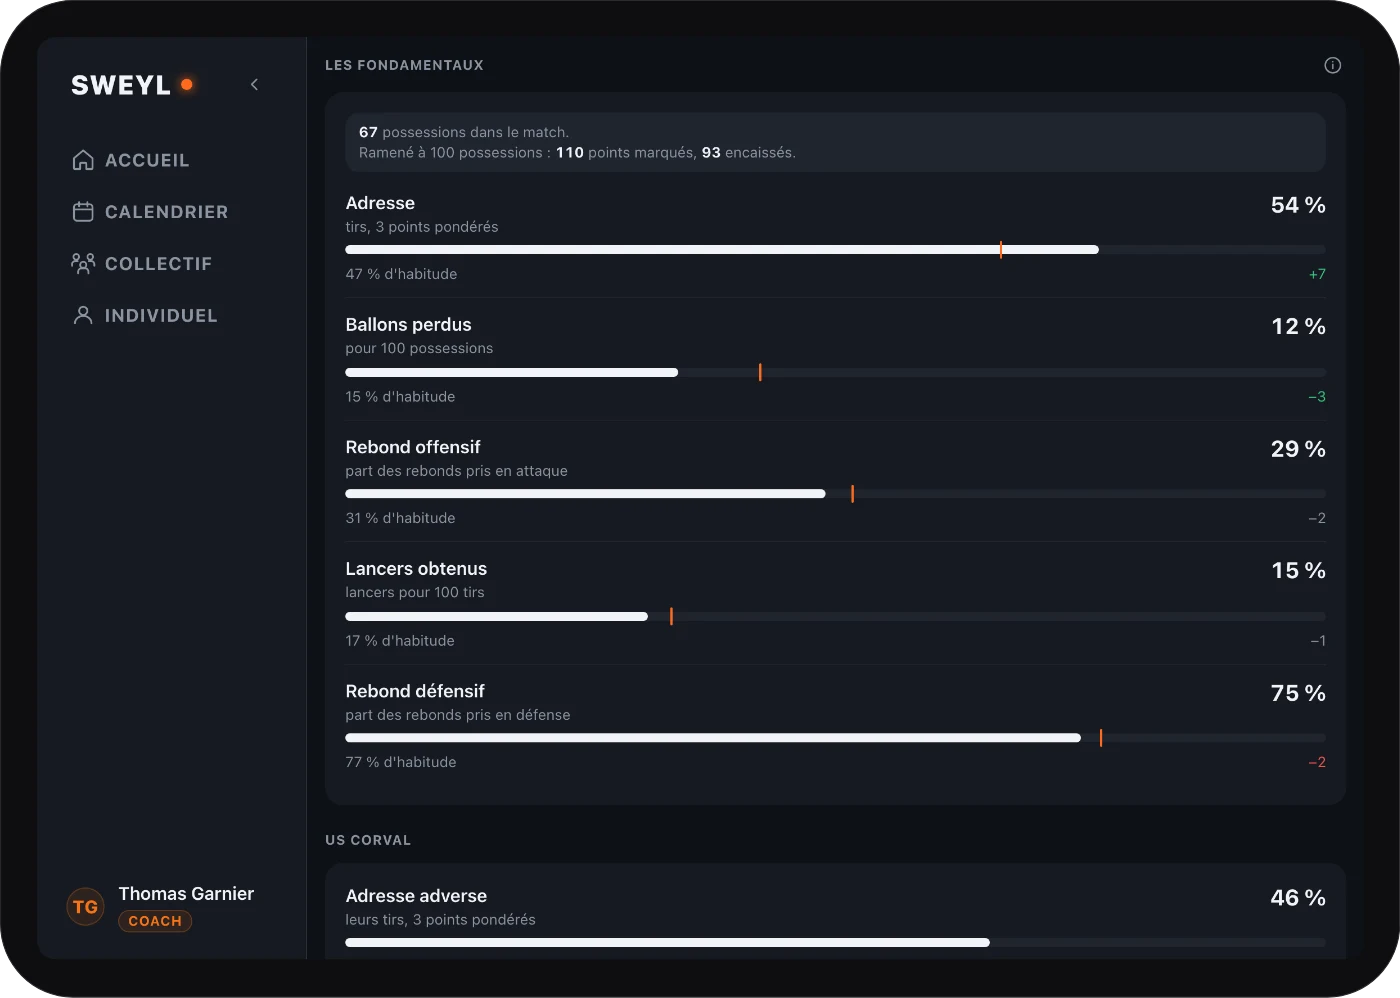
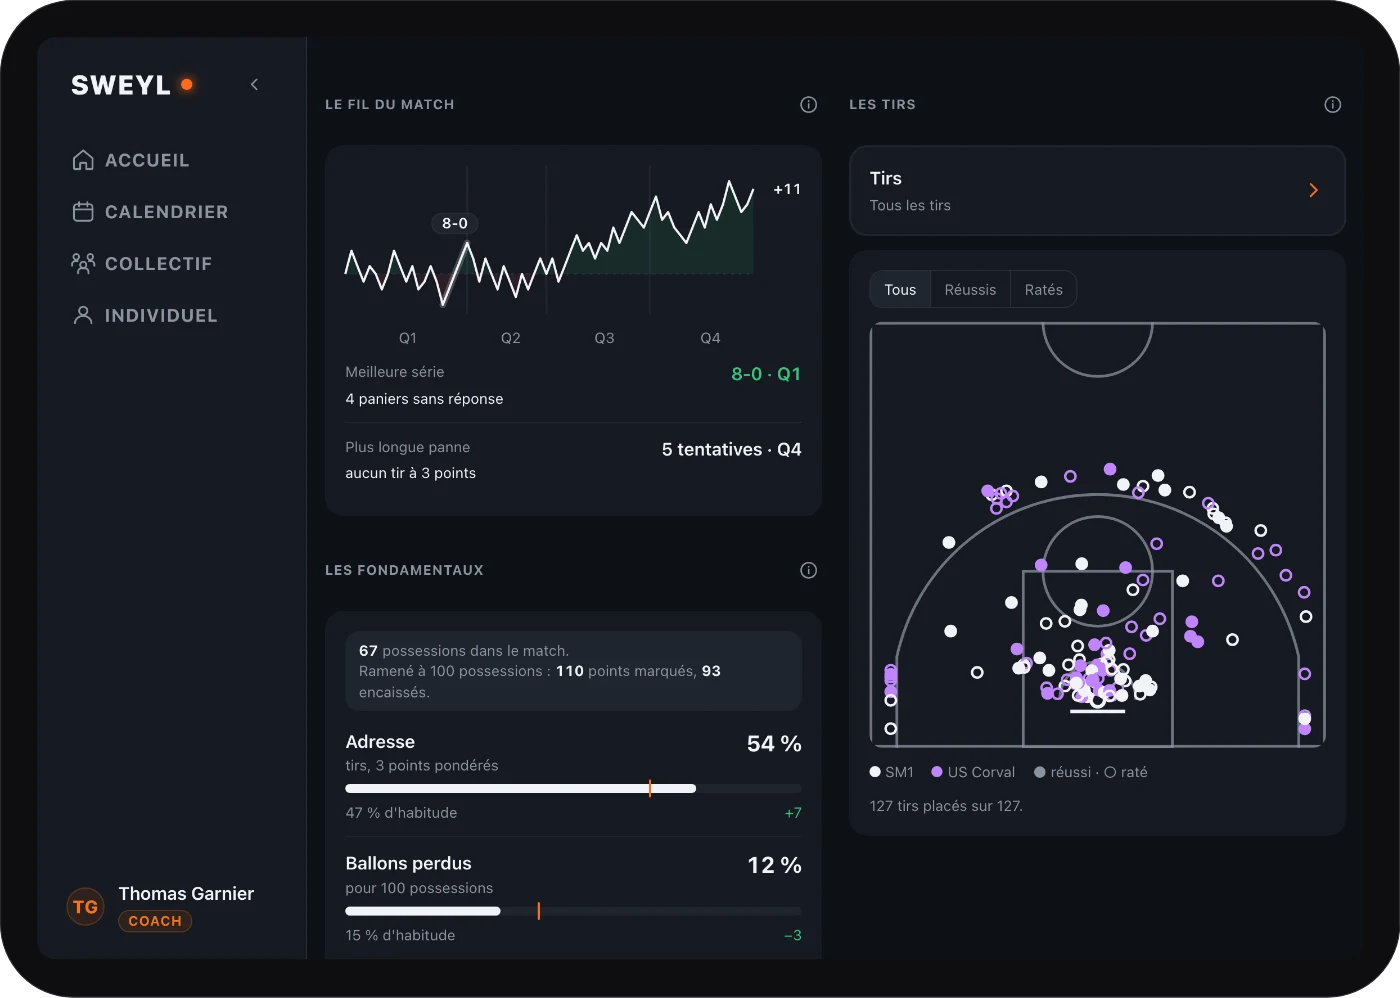
feat(pro): pilier 03 recentré sur le fil du match, l'adresse et la carte des tirs
La capture d'analyse place le fil du match et l'adresse à gauche, la carte
des tirs des deux camps à droite. Plus de « quatre facteurs » sur la page.

diff --git a/src/pro/copy.js b/src/pro/copy.js
@@ -73,10 +73,10 @@ export const COPY = {
       id: 'analyse',
       eyebrow: '03 · Vos stats · Après le match',
       title: 'Le match, expliqué.',
-      sub: 'Adresse, pertes, rebond, lancers obtenus : les quatre facteurs, des deux côtés. Et la carte des tirs, joueur par joueur.',
+      sub: 'Les séries, les pannes, l’adresse des deux camps. Et chaque tir, à sa place sur le terrain.',
       spec: [
-        ['Fondamentaux', 'Face aux habitudes de votre équipe'],
         ['Fil du match', 'Séries et pannes, panier par panier'],
+        ['Adresse', 'La vôtre, la leur, face à vos habitudes'],
         ['Carte des tirs', 'Réussis et ratés, par joueur'],
       ],
       shot: 'analyse',
@@ -100,7 +100,7 @@ export const COPY = {
     fiche: 'Fiche d’un joueur adverse, avec le duel et la façon de le défendre',
     preparation: 'Préparation du match publiée aux joueurs, avec les duels et leur lecture',
     boxscore: 'Statistiques de l’équipe adverse, joueur par joueur, avec l’Éval et le +/-',
-    analyse: 'Analyse d’un match : les fondamentaux des deux camps et la carte des tirs',
+    analyse: 'Analyse d’un match : le fil du match, l’adresse et la carte des tirs des deux camps',
     video: 'Outil vidéo calé sur une action du journal du match',
   },
   zoomClose: 'Fermer',

diff --git a/CLAUDE.md b/CLAUDE.md
@@ -71,8 +71,9 @@ au **staff d'une équipe de prénationale à N1**, pas aux clubs amateurs.
 
 - **Vouvoiement**, « nous » pour Sweyl. Lexique du terrain : entre-deux, buzzer, duel, système,
   pick and roll, transition, rebond offensif, box score, Éval, +/-. Jamais « solution »,
-  « plateforme », « fonctionnalité », « digitaliser ». « Les quatre facteurs » est permis ici et
-  interdit dans l'application, c'est voulu : un staff de N2 connaît Dean Oliver.
+  « plateforme », « fonctionnalité », « digitaliser ». **Pas de « quatre facteurs »** ni de détail
+  des indicateurs d'analyse (*arbitrage d'Ismail du 19/10/2026*) : la page montre le fil du match,
+  l'adresse et la carte des tirs, elle n'explique pas la méthode.
 - **Aucun prix**, ni chiffre ni fourchette. La seule phrase tarifaire permise est « Le tarif,
   communiqué à la démo ». Un seul appel à l'action : « Réserver une démo ».
 - **Rien n'y est promis qui ne soit dans les specs** (`OpposingTeams.md` §3, `OpponentStats.md` §3,
@@ -93,8 +94,15 @@ au **staff d'une équipe de prénationale à N1**, pas aux clubs amateurs.
   sur l'hôte `pro.sweyl.com` par `middleware.js` (une réécriture de `vercel.json` passerait après
   le système de fichiers et servirait `index.html` sur « / »). `sweyl.com/pro` redirige.
 
-**Bandeau sur sweyl.com** : il vit dans `Header.jsx`, toujours sombre, non fermable, pas d'orange
-hors de la pastille PRO.
+**La marque « SWEYL PRO »** (`src/components/SweylProMark.jsx`) : « SWEYL » dans la couleur du
+texte, « PRO » en orange, cadre orange. Sur `sweyl.com`, c'est un lien vers `pro.sweyl.com` parmi
+les boutons du header, toujours visible ; il remplace le bandeau du handoff, qui disparaissait au
+premier défilement (*arbitrage d'Ismail du 19/10/2026*). Sur la page Pro, elle suit le logo, à la
+place du mot SWEYL.
+
+**Captures recomposées** : une capture peut réagencer les vrais composants de l'application (la
+capture d'analyse place le fil du match et l'adresse à gauche, la carte des tirs à droite), jamais
+inventer un écran ni une donnée.
 
 ## Formulaire de démo
 
